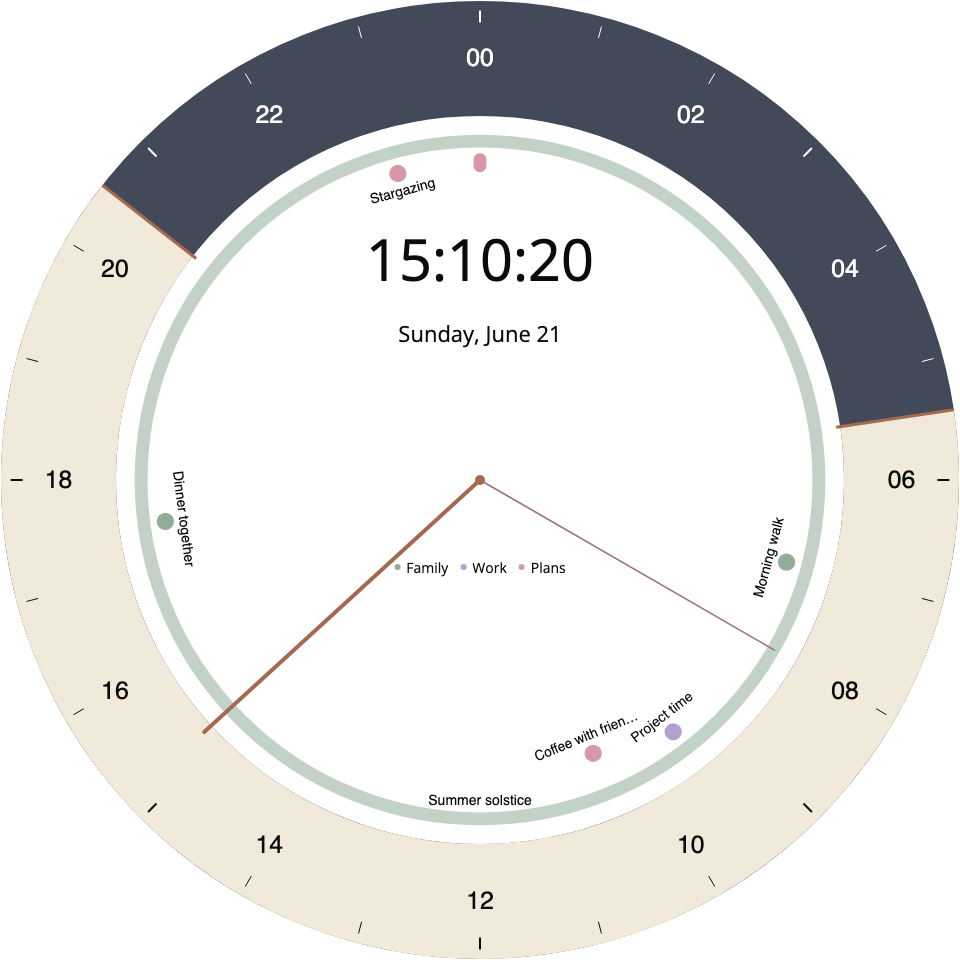
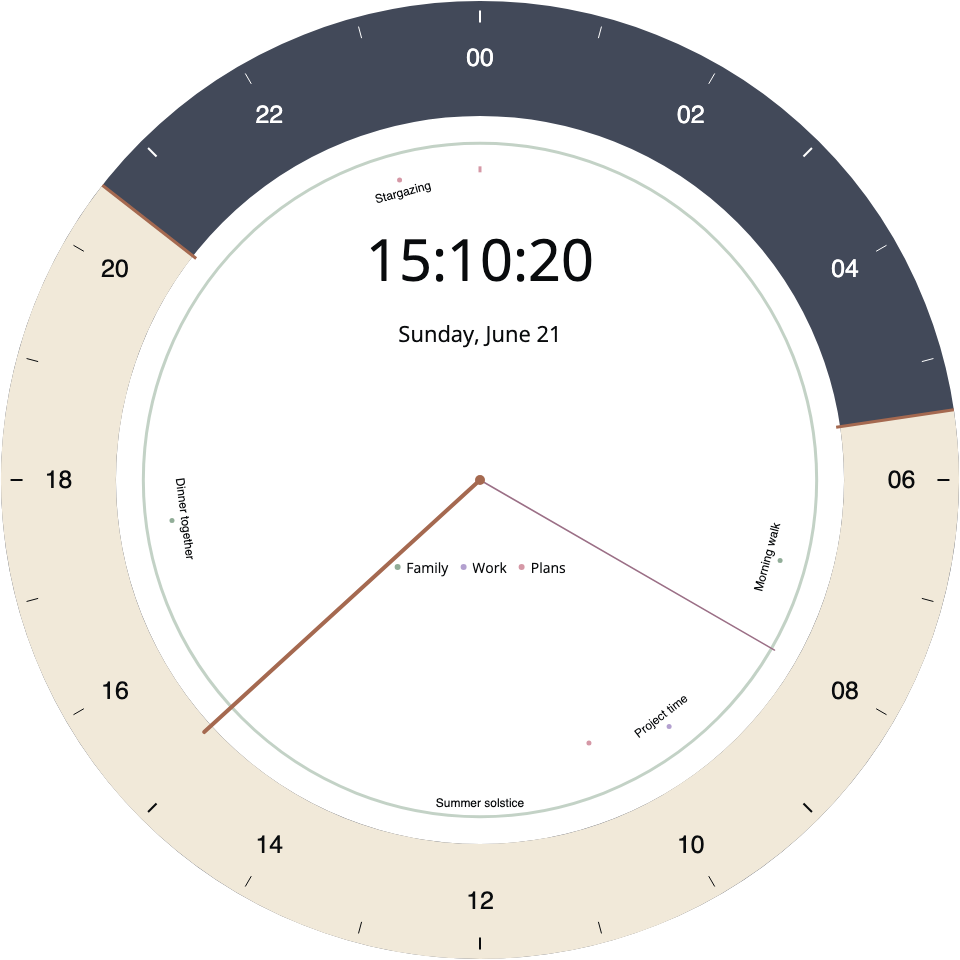
Fix event label collisions and refresh clock demo screenshots

diff --git a/clock/src/lib/draw-events.ts b/clock/src/lib/draw-events.ts
@@ -1,8 +1,13 @@
 import type { ClockSettings } from './settings';
 import { MAX_EVENT_LANES, type ClockEvent } from './events.ts';
+import { labelBox, labelFits, type LabelBox } from './label-layout.ts';
 
 const TAU = Math.PI * 2;
 const angle = (fraction: number) => fraction * TAU - Math.PI / 2;
+const eventStep = (radius: number, names: boolean) =>
+  Math.max(4, names ? Math.min(26, radius * 0.065) : radius * 0.027);
+const eventGap = (radius: number, names: boolean) =>
+  names ? Math.max(8, Math.min(12, radius * 0.025)) + 4 : 4;
 
 function eventLabel(
   ctx: CanvasRenderingContext2D,
@@ -11,6 +16,7 @@ function eventLabel(
   y: number,
   rotation: number,
   fontSize: number,
+  occupied: LabelBox[],
 ) {
   const styles = getComputedStyle(ctx.canvas);
   ctx.save();
@@ -21,6 +27,12 @@ function eventLabel(
   ctx.textAlign = 'center';
   ctx.textBaseline = 'middle';
   const label = title.length > 18 ? `${title.slice(0, 17)}…` : title;
+  const box = labelBox(x, y, Math.min(110, ctx.measureText(label).width), fontSize + 4, rotation);
+  if (!labelFits(box, occupied, ctx.canvas.clientWidth, ctx.canvas.clientHeight)) {
+    ctx.restore();
+    return;
+  }
+  occupied.push(box);
   ctx.strokeStyle = styles.getPropertyValue('--color-surface').trim();
   ctx.lineWidth = 3;
   ctx.strokeText(label, 0, 0, 110);
@@ -41,7 +53,9 @@ export function faceRadius(
   const lanes = Math.min(MAX_EVENT_LANES, Math.max(...events.map((event) => event.lane)) + 1);
   return Math.max(
     1,
-    radius - lanes * Math.max(4, radius * (settings.showEventNames ? 0.045 : 0.027)) - 4,
+    radius -
+      lanes * eventStep(radius, settings.showEventNames) -
+      eventGap(radius, settings.showEventNames),
   );
 }
 
@@ -56,21 +70,22 @@ export function drawEvents(
   if (settings.eventStyle === 'none') return;
   const outer = Math.max(1, Math.min(width, height) / 2 - 1);
   const radius = faceRadius(width, height, settings, events);
-  const step = Math.max(4, outer * (settings.showEventNames ? 0.045 : 0.027));
+  const step = eventStep(outer, settings.showEventNames);
+  const occupied: LabelBox[] = [];
   ctx.save();
-  ctx.lineCap = 'round';
+  ctx.lineCap = 'butt';
   for (const event of events) {
     if (event.lane >= MAX_EVENT_LANES) continue;
     const color = settings.eventColor ?? event.color ?? fallbackColor;
     ctx.strokeStyle = color;
     ctx.fillStyle = color;
-    ctx.lineWidth = Math.max(2, step * 0.6);
+    ctx.lineWidth = settings.showEventNames ? 3 : Math.max(2, step * 0.6);
     // Full-day outlines are deliberately less dominant than timed-event bands.
     ctx.globalAlpha = event.allDay ? 0.55 : 1;
     if (settings.mode === 'circle') {
       const r =
         settings.eventPlacement === 'outside'
-          ? radius + 4 + step * (event.lane + 0.5)
+          ? radius + eventGap(outer, settings.showEventNames) + step * (event.lane + 0.5)
           : radius * 0.73 - step * (event.lane + 0.5);
       if (r <= 0) continue;
       const x = width / 2;
@@ -80,7 +95,7 @@ export function drawEvents(
         ctx.arc(
           x + Math.cos(angle(event.start)) * r,
           y + Math.sin(angle(event.start)) * r,
-          Math.max(2, step * 0.4),
+          settings.showEventNames ? 2.5 : Math.max(2, step * 0.4),
           0,
           TAU,
         );
@@ -98,13 +113,14 @@ export function drawEvents(
         ctx.lineTo(x + Math.cos(a) * (r + 3), y + Math.sin(a) * (r + 3));
         ctx.stroke();
       }
-      if (settings.showEventNames) {
+      const fontSize = Math.max(8, Math.min(12, outer * 0.025));
+      if (settings.showEventNames && step >= fontSize + 8) {
         const mid =
           settings.eventStyle === 'dot' && !event.allDay
             ? event.start
             : (event.start + event.end) / 2;
         const a = angle(mid);
-        const labelRadius = r - step * 0.85;
+        const labelRadius = r - step * 0.5;
         const rotation = a + Math.PI / 2 + (mid > 0.25 && mid < 0.75 ? Math.PI : 0);
         eventLabel(
           ctx,
@@ -112,7 +128,8 @@ export function drawEvents(
           x + Math.cos(a) * labelRadius,
           y + Math.sin(a) * labelRadius,
           rotation,
-          Math.max(9, Math.min(14, outer * 0.033)),
+          fontSize,
+          occupied,
         );
       }
     } else {
@@ -123,10 +140,16 @@ export function drawEvents(
         settings.eventPlacement === 'inside'
           ? 16 + trackStep * (event.lane + 0.5)
           : height - 52 - trackStep * (event.lane + 0.5);
-      ctx.lineWidth = Math.max(2, trackStep * 0.6);
+      ctx.lineWidth = settings.showEventNames ? 3 : Math.max(2, trackStep * 0.6);
       if (settings.eventStyle === 'dot' && !event.allDay) {
         ctx.beginPath();
-        ctx.arc(width * event.start, y, Math.max(2, trackStep * 0.4), 0, TAU);
+        ctx.arc(
+          width * event.start,
+          y,
+          settings.showEventNames ? 2.5 : Math.max(2, trackStep * 0.4),
+          0,
+          TAU,
+        );
         ctx.fill();
       } else {
         ctx.beginPath();
@@ -141,7 +164,7 @@ export function drawEvents(
         ctx.lineTo(x, y + 4);
         ctx.stroke();
       }
-      if (settings.showEventNames) {
+      if (settings.showEventNames && trackStep >= 23) {
         const mid =
           settings.eventStyle === 'dot' && !event.allDay
             ? event.start
@@ -150,9 +173,10 @@ export function drawEvents(
           ctx,
           event.title,
           Math.max(56, Math.min(width - 56, width * mid)),
-          y + (settings.eventPlacement === 'inside' ? 9 : -9),
+          y + (settings.eventPlacement === 'inside' ? 12 : -12),
           0,
           11,
+          occupied,
         );
       }
     }

diff --git a/clock/src/lib/label-layout.ts b/clock/src/lib/label-layout.ts
@@ -1,0 +1,41 @@
+export interface LabelBox {
+  left: number;
+  top: number;
+  right: number;
+  bottom: number;
+}
+
+export function labelBox(
+  x: number,
+  y: number,
+  width: number,
+  height: number,
+  rotation: number,
+): LabelBox {
+  const halfWidth =
+    (Math.abs(Math.cos(rotation)) * width + Math.abs(Math.sin(rotation)) * height) / 2 + 2;
+  const halfHeight =
+    (Math.abs(Math.sin(rotation)) * width + Math.abs(Math.cos(rotation)) * height) / 2 + 2;
+  return { left: x - halfWidth, right: x + halfWidth, top: y - halfHeight, bottom: y + halfHeight };
+}
+
+export function labelFits(
+  box: LabelBox,
+  occupied: LabelBox[],
+  width: number,
+  height: number,
+): boolean {
+  return (
+    box.left >= 0 &&
+    box.top >= 0 &&
+    box.right <= width &&
+    box.bottom <= height &&
+    !occupied.some(
+      (other) =>
+        box.left < other.right + 2 &&
+        box.right > other.left - 2 &&
+        box.top < other.bottom + 2 &&
+        box.bottom > other.top - 2,
+    )
+  );
+}

diff --git a/clock/src/lib/label-layout.test.ts b/clock/src/lib/label-layout.test.ts
@@ -1,0 +1,15 @@
+import assert from 'node:assert/strict';
+import { test } from 'node:test';
+import { labelBox, labelFits } from './label-layout.ts';
+
+test('labels reject collisions and clipping, including rotated circular labels', () => {
+  const first = labelBox(100, 100, 80, 12, 0);
+  assert.equal(labelFits(first, [], 400, 400), true);
+  assert.equal(labelFits(labelBox(130, 100, 80, 12, 0), [first], 400, 400), false);
+  assert.equal(labelFits(labelBox(200, 100, 80, 12, 0), [first], 400, 400), true);
+  assert.equal(labelFits(labelBox(5, 100, 80, 12, 0), [], 400, 400), false);
+  const rotated = labelBox(100, 100, 80, 12, Math.PI / 2);
+  assert.ok(Math.abs(rotated.right - rotated.left - 16) < 0.000001);
+  assert.ok(Math.abs(rotated.bottom - rotated.top - 84) < 0.000001);
+  assert.equal(labelFits(rotated, [first], 400, 400), false);
+});

diff --git a/clock/src/lib/events.test.ts b/clock/src/lib/events.test.ts
@@ -75,6 +75,21 @@ test('calendar filtering, deduplication, invalid dates, and visible-lane bounds'
   assert.equal(faceRadius(720, 720, { ...DEFAULT_SETTINGS, eventStyle: 'none' }, overlapping), 359);
 });
 
+test('sub-minute event minimum widths reserve separate visible lanes', () => {
+  const daily = eventsForDay(
+    [
+      event('one', '2026-11-10T12:00:00-05:00', '2026-11-10T12:00:20-05:00'),
+      event('two', '2026-11-10T12:00:30-05:00', '2026-11-10T12:00:50-05:00'),
+    ],
+    day,
+    [],
+  );
+  assert.deepEqual(
+    daily.map((entry) => entry.lane),
+    [0, 1],
+  );
+});
+
 test('fall-back-hour events cannot create negative duration bands', () => {
   const events = eventsForDay(
     [event('dst', '2026-11-01T01:45:00-04:00', '2026-11-01T01:15:00-05:00')],

diff --git a/clock/src/lib/events.ts b/clock/src/lib/events.ts
@@ -130,7 +130,9 @@ export function eventsForDay(
     let lane = laneEnds.findIndex((lastEnd) => lastEnd <= event.start);
     if (lane < 0) lane = laneEnds.length;
     event.lane = lane;
-    laneEnds[lane] = event.end;
+    // Rendering gives sub-minute events a one-minute minimum width. Reserve that
+    // same visible span so the next event cannot overlap it in the same lane.
+    laneEnds[lane] = Math.min(1, Math.max(event.end, event.start + 1 / 1440));
   }
   return daily;
 }

diff --git a/readmes/clock.md b/readmes/clock.md
@@ -107,7 +107,7 @@ Publication runs on normal dashboard refresh (normally every five minutes), init
 - Overlaps stack in separate lanes. All-day events get their own full-day lanes. Up to five lanes draw; excess overlaps are reported when status is enabled. The optional agenda shows the first five events plus a remaining count.
 - Midnight-crossing events clip to today with continuation ticks; agenda arrows indicate continuation. Google all-day end dates are exclusive and are not shifted by UTC parsing.
 - Fall-back-hour events occupy their wall-time range (minimum one-minute band), with a DST note in the agenda. A wall-clock dial cannot distinguish both occurrences of the same hour.
-- Optional calendar-color legend; event names on marks and the daily agenda are separate toggles, both off by default. Labels on marks are abbreviated and may be crowded for dense schedules.
+- Optional calendar-color legend; event names on marks and the daily agenda are separate toggles, both off by default. Labels on marks are abbreviated, use dedicated clearance from their bars, and are suppressed when they collide or there is insufficient space. Marks remain visible; use the agenda for names in dense schedules.
 - Calendar checkboxes select a subset; **All shared calendars** bypasses the filter. Turning every calendar off produces `calendarFilter=1&calendars=[]`, not a fallback to all. Checkboxes list all shared calendars, including those without current events; IDs can also be entered directly.
 - Polling stops while hidden and refreshes on tab return. Connection/stale/expired/coverage status can be hidden.
 

diff --git a/clock/screenshots/README.md b/clock/screenshots/README.md
@@ -2,7 +2,7 @@
 
 **12 full-resolution demos**, plus two overview sheets. Real screenshots of the built app in Chromium, using fictional calendars/events and a fixed demo date: **Sunday, June 21, 2026 at 15:10:20, America/New_York**. Coordinates are New York; no private Google events or production relay were accessed.
 
-The warm cream/charcoal palettes below are examples made with the app’s color settings—not fixed product colors. Every displayed option can be configured in the URL. `f=1` hides controls in all examples.
+The warm cream/charcoal palettes below are examples made with the app’s color settings—not fixed product colors. Optional names use separate clearance from the marks; crowded labels are omitted instead of overlapping, while the dot/band remains. The optional agenda supplies names for dense schedules. Every displayed option can be configured in the URL. `f=1` hides controls in all examples.
 
 ## Circular overview
 
